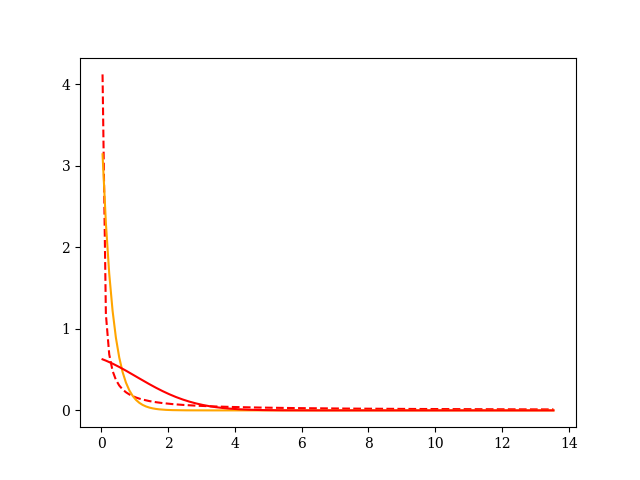
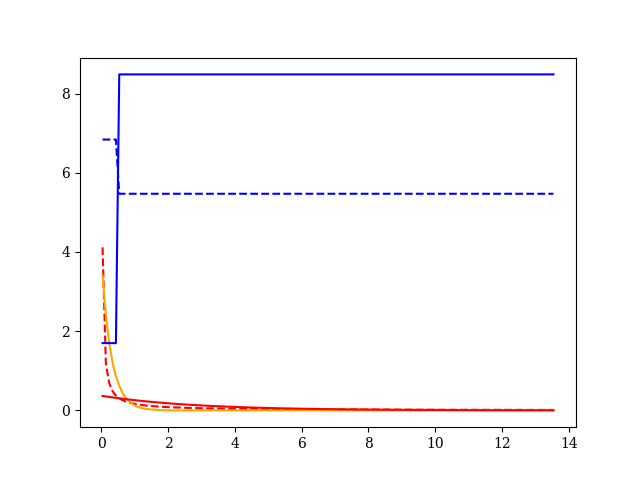
modified:   junk.png 	modified:   what_exp_pwr.py

diff --git a/analysis/junk/what_exp_pwr.py b/analysis/junk/what_exp_pwr.py
@@ -13,18 +13,38 @@ if __name__=='__main__':
     p_pwr = (-1., 1.)
     yy = rz.powerdtd(tt, *p_pwr)#, normed=False)
 
+
+
+    zz = yy*0.0
+    id1 = where(tt < 0.5)
+    zz[id1]=sum(yy[id1])
+    id2 = where(tt >= 0.5)
+    zz[id2]=sum(yy[id2])
+
+    
     ax=subplot(111)
     ax.plot(tt, yy, 'r--')
-    #ax.set_xlim(0.04,14)
-
-
-    p0=(2,2,1)
+    ax.plot(tt,zz, 'b--')
+    p0 = (1,1,1)
     popt,pcov=curve_fit(rz.dtdfunc, tt, yy, p0=p0)
     ax.plot(tt, rz.dtdfunc(tt,*popt), '-',color='orange')
     print(popt)
-    p1 = (0.15, 2, -0.7)
-    ax.plot(tt, rz.dtdfunc(tt,*p1), 'r-')
+    p1=(-1258, 59, 248)
+
+    yy = rz.dtdfunc(tt,*p1)
+
+    zz = yy*0.0
+    id1 = where(tt < 0.5)
+    zz[id1]=sum(yy[id1])
+    id2 = where(tt >= 0.5)
+    zz[id2]=sum(yy[id2])
+
+    ax.plot(tt,yy , 'r-')
+    ax.plot(tt,zz , 'b-')
+
+
     
+    #ax.set_xlim(0.04,14)
     savefig('junk.png')
     
               
